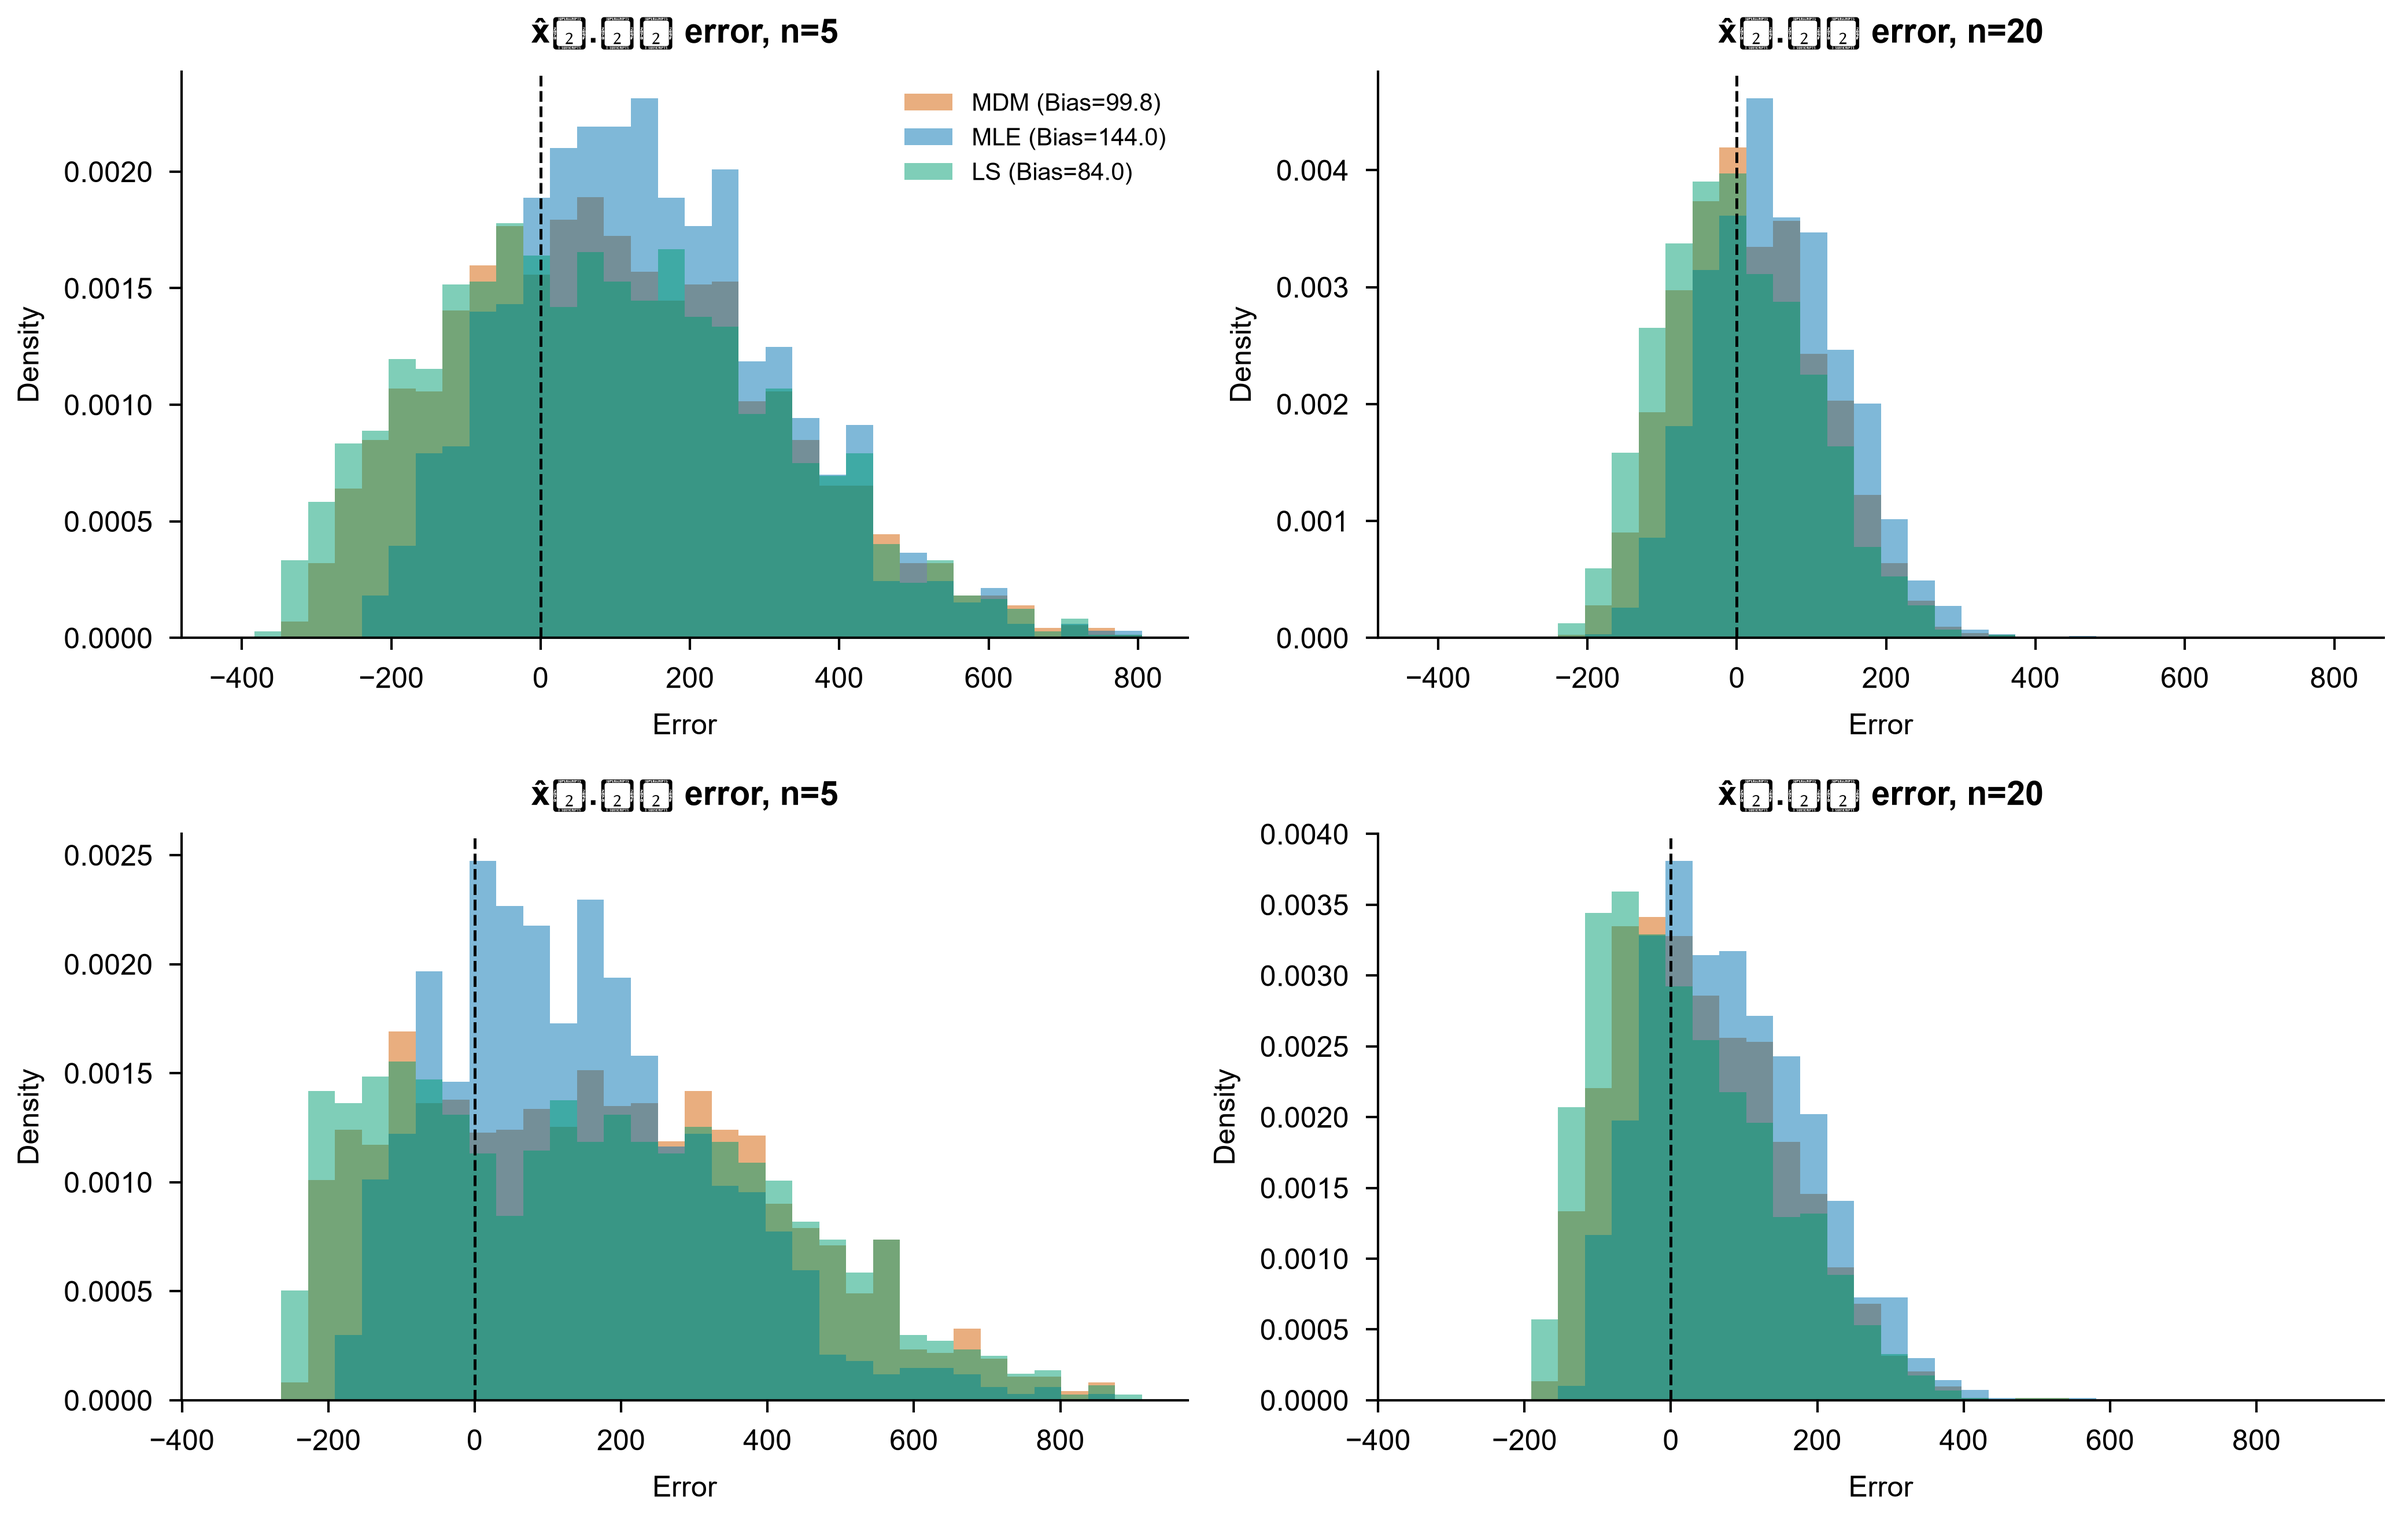
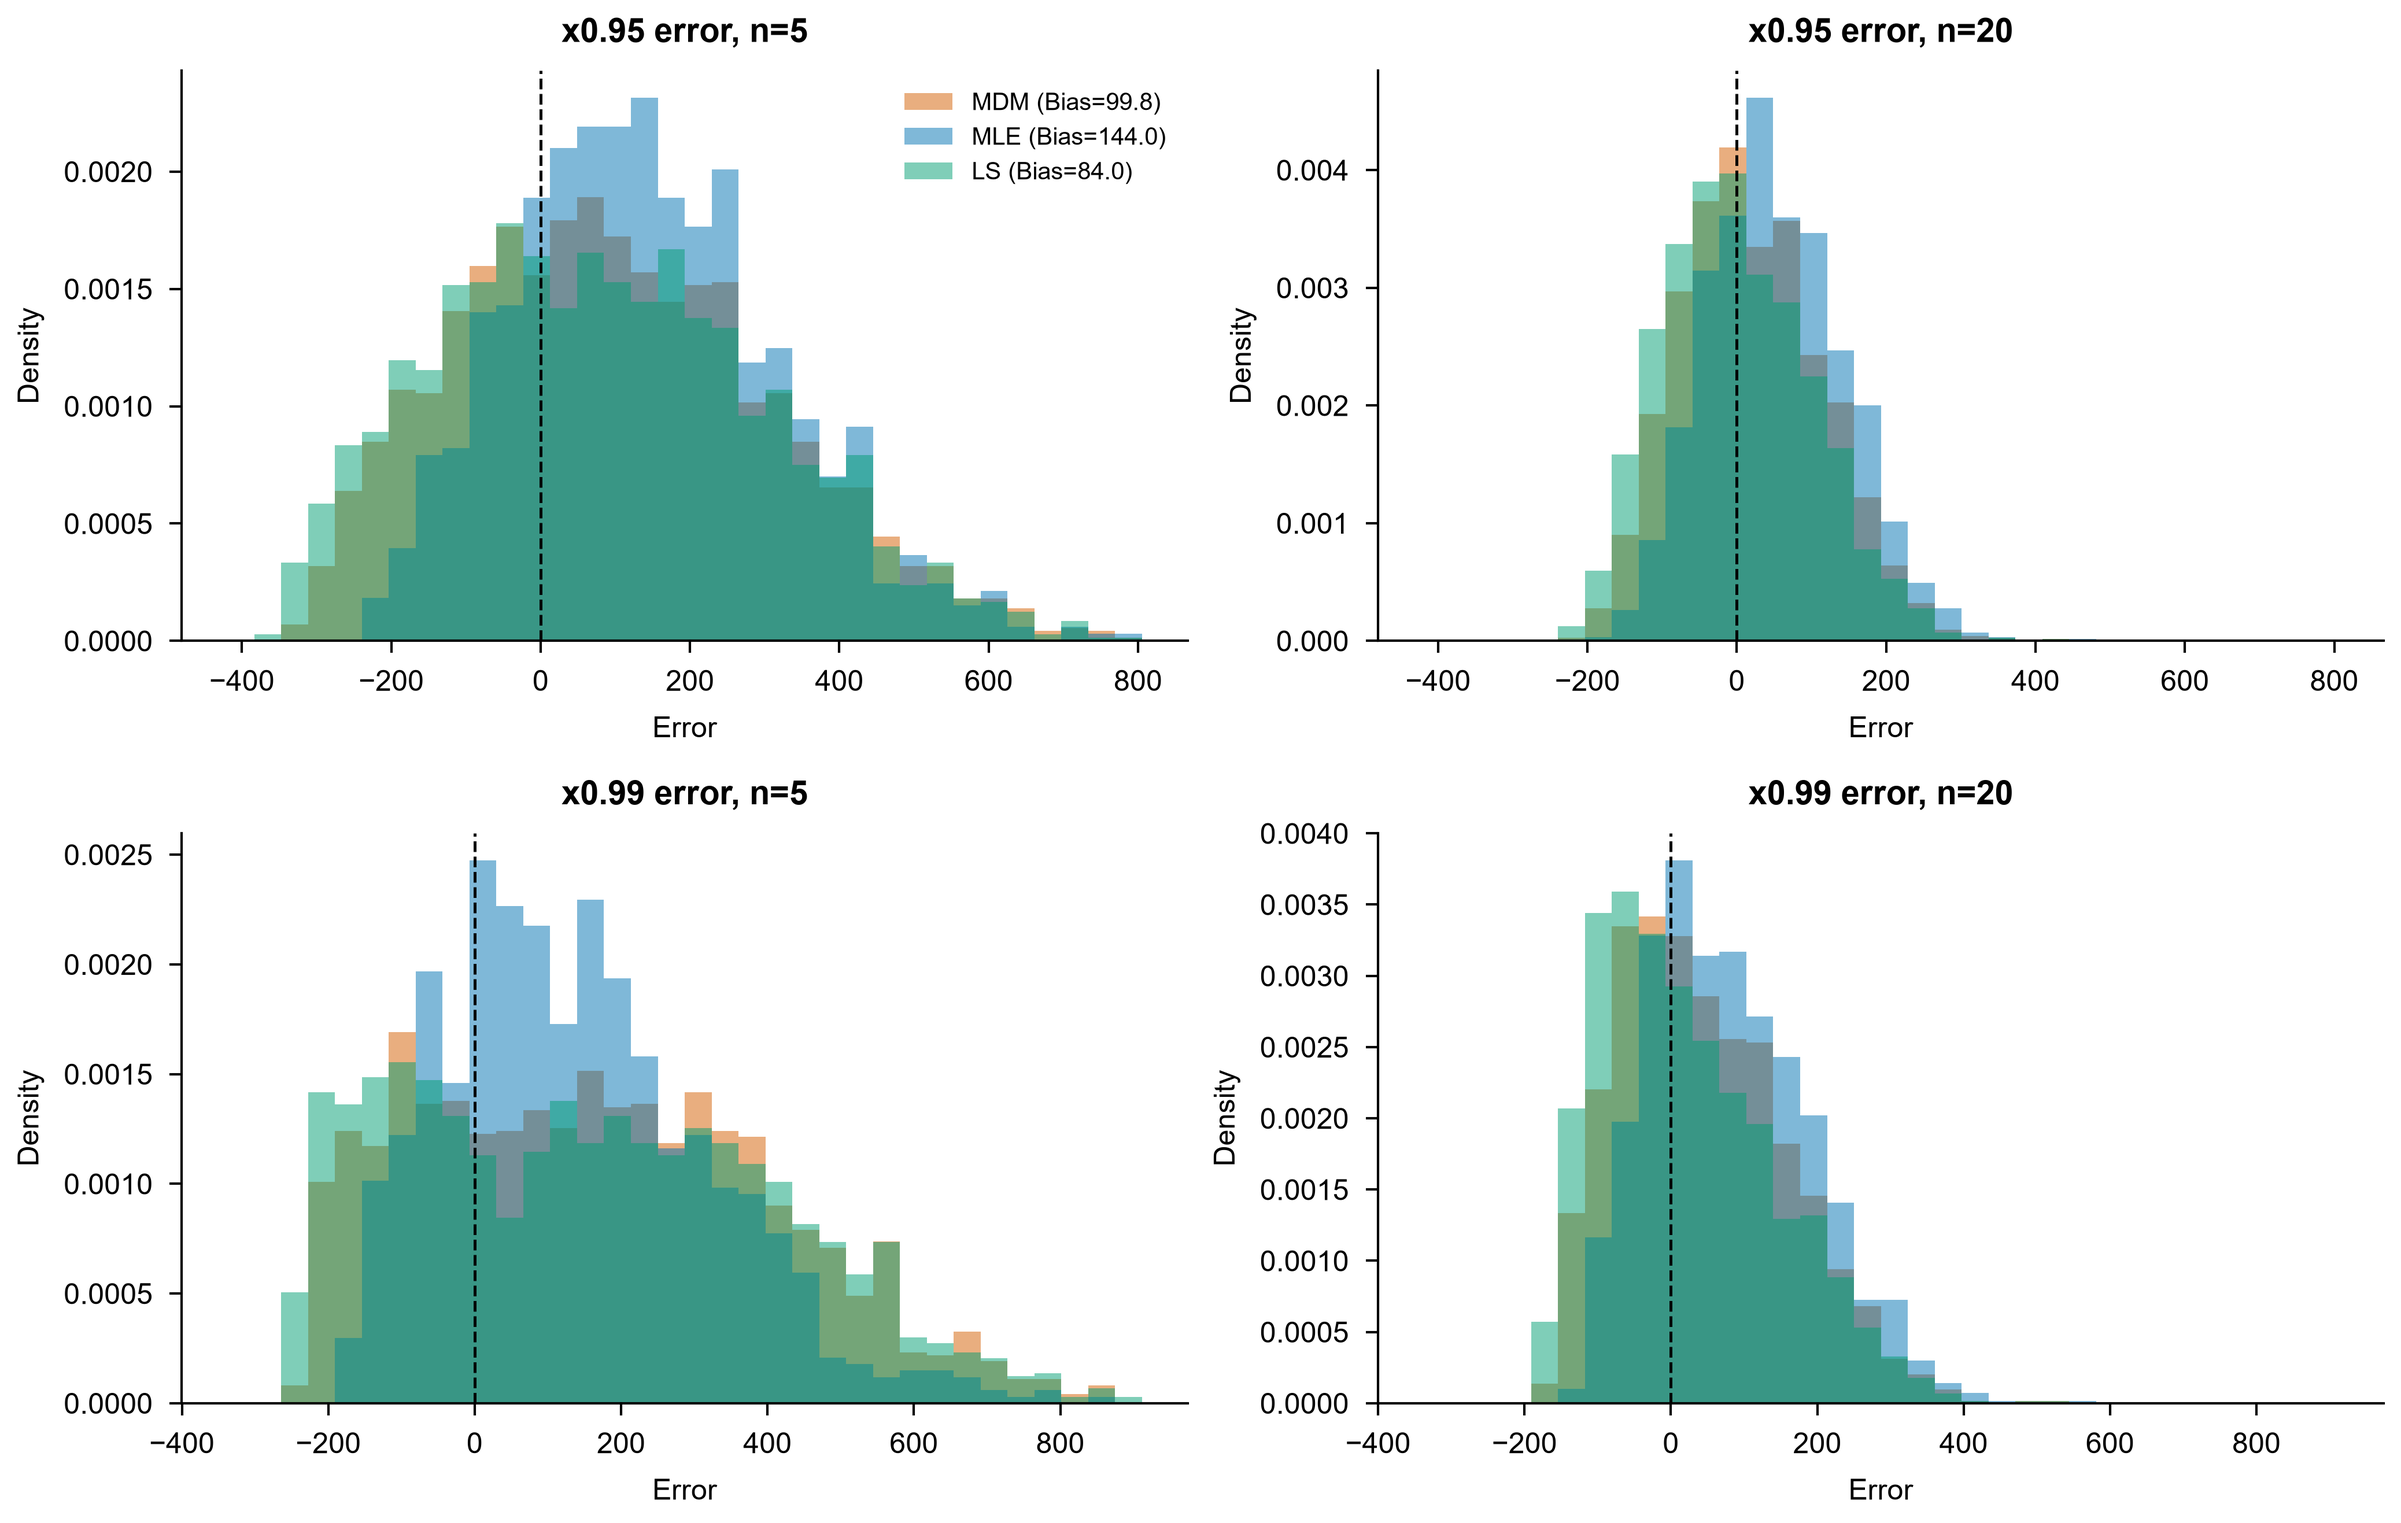
研究04: 修复图题下标乱码(Unicode→ASCII)

diff --git a/docs/research/04基于神经网络的MDM偏移量自适应选取/程序/E01-6_工程误差分布对比.py b/docs/research/04基于神经网络的MDM偏移量自适应选取/程序/E01-6_工程误差分布对比.py
@@ -61,7 +61,7 @@ for tag in ['err_x95', 'err_x99']:
 # Plot: 2 rows (x95, x99) × 2 cols (n=5, n=20), each col has 3 overlaid histograms
 fig, axes = plt.subplots(2, 2, figsize=(7, 4.5))
 
-for row_idx, (tag, plabel) in enumerate([('err_x95', 'x̂₀.₉₅ error'), ('err_x99', 'x̂₀.₉₉ error')]):
+for row_idx, (tag, plabel) in enumerate([('err_x95', 'x0.95 error'), ('err_x99', 'x0.99 error')]):
     for col_idx, n in enumerate([5, 20]):
         ax = axes[row_idx, col_idx]
         lo, hi = shared[tag]

diff --git a/docs/research/04基于神经网络的MDM偏移量自适应选取/程序/E01-6_误差分布图.py b/docs/research/04基于神经网络的MDM偏移量自适应选取/程序/E01-6_误差分布图.py
@@ -164,7 +164,7 @@ print('saved: E01-6_误差箱线图.png')
 # Figure C: Engineering perspective boxplot (x95)
 # ============================================================
 fig, axes = plt.subplots(1, 2, figsize=(5, 2.5))
-params_eng = [('err_x95', 'x̂₀.₉₅ − x₀.₉₅'), ('err_x99', 'x̂₀.₉₉ − x₀.₉₉')]
+params_eng = [('err_x95', 'x0.95 error'), ('err_x99', 'x0.99 error')]
 
 for idx, (pkey, plabel) in enumerate(params_eng):
     ax = axes[idx]
